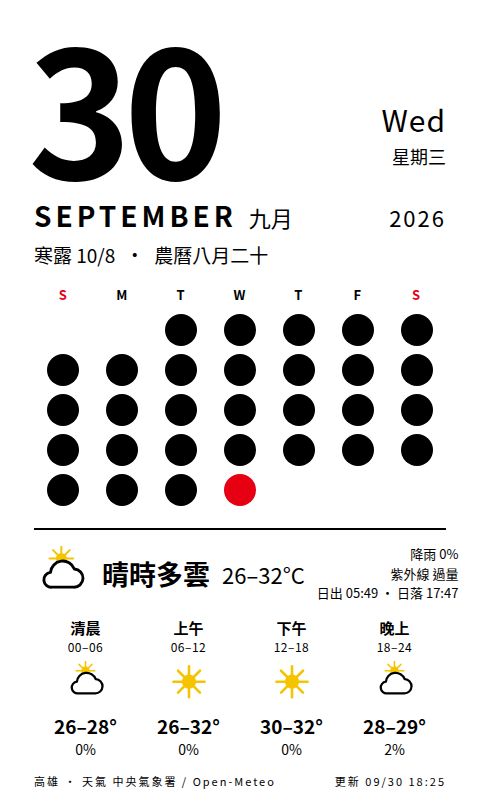
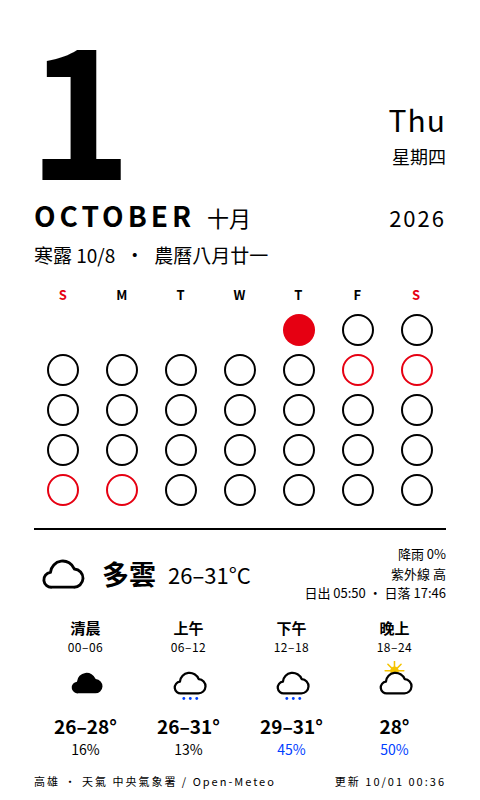
deploy: cf7d1051eb6821bc691ba0ade4beb12cdf9fe0ef

diff --git a/calendar.html b/calendar.html
@@ -47,16 +47,16 @@
 </style></head>
 <body><div class="page">
   <div class="head">
-    <div class="num">30</div>
-    <div class="wd"><div class="en">Wed</div><div class="zh">星期三</div></div>
+    <div class="num">1</div>
+    <div class="wd"><div class="en">Thu</div><div class="zh">星期四</div></div>
   </div>
-  <div class="month"><span class="en">SEPTEMBER</span><span class="zh">九月</span><span class="yr">2026</span></div>
-  <div class="today"><span class="lunar">寒露 10/8</span><span>·</span><span class="lunar">農曆八月二十</span></div>
-  <div class="grid"><div class="h we">S</div><div class="h">M</div><div class="h">T</div><div class="h">W</div><div class="h">T</div><div class="h">F</div><div class="h we">S</div><div class="dot empty"></div><div class="dot empty"></div><div class="dot past" title="1"></div><div class="dot past" title="2"></div><div class="dot past" title="3"></div><div class="dot past" title="4"></div><div class="dot past" title="5"></div><div class="dot past" title="6"></div><div class="dot past" title="7"></div><div class="dot past" title="8"></div><div class="dot past" title="9"></div><div class="dot past" title="10"></div><div class="dot past" title="11"></div><div class="dot past" title="12"></div><div class="dot past" title="13"></div><div class="dot past" title="14"></div><div class="dot past" title="15"></div><div class="dot past" title="16"></div><div class="dot past" title="17"></div><div class="dot past" title="18"></div><div class="dot past" title="19"></div><div class="dot past" title="20"></div><div class="dot past" title="21"></div><div class="dot past" title="22"></div><div class="dot past" title="23"></div><div class="dot past" title="24"></div><div class="dot past" title="25"></div><div class="dot past" title="26"></div><div class="dot past" title="27"></div><div class="dot past" title="28"></div><div class="dot past" title="29"></div><div class="dot now" title="30"></div></div>
+  <div class="month"><span class="en">OCTOBER</span><span class="zh">十月</span><span class="yr">2026</span></div>
+  <div class="today"><span class="lunar">寒露 10/8</span><span>·</span><span class="lunar">農曆八月廿一</span></div>
+  <div class="grid"><div class="h we">S</div><div class="h">M</div><div class="h">T</div><div class="h">W</div><div class="h">T</div><div class="h">F</div><div class="h we">S</div><div class="dot empty"></div><div class="dot empty"></div><div class="dot empty"></div><div class="dot empty"></div><div class="dot now" title="1"></div><div class="dot future" title="2"></div><div class="dot future" title="3"></div><div class="dot future" title="4"></div><div class="dot future" title="5"></div><div class="dot future" title="6"></div><div class="dot future" title="7"></div><div class="dot future" title="8"></div><div class="dot future hol" title="9"></div><div class="dot future hol" title="10"></div><div class="dot future" title="11"></div><div class="dot future" title="12"></div><div class="dot future" title="13"></div><div class="dot future" title="14"></div><div class="dot future" title="15"></div><div class="dot future" title="16"></div><div class="dot future" title="17"></div><div class="dot future" title="18"></div><div class="dot future" title="19"></div><div class="dot future" title="20"></div><div class="dot future" title="21"></div><div class="dot future" title="22"></div><div class="dot future" title="23"></div><div class="dot future" title="24"></div><div class="dot future hol" title="25"></div><div class="dot future hol" title="26"></div><div class="dot future" title="27"></div><div class="dot future" title="28"></div><div class="dot future" title="29"></div><div class="dot future" title="30"></div><div class="dot future" title="31"></div></div>
   <div class="wx"><div class="line">
-    <div class="wxhead"><svg viewBox="0 0 64 68" xmlns="http://www.w3.org/2000/svg"><g transform="translate(12 -4) scale(.6)"><circle cx="32" cy="32" r="11" fill="#f5c400"/><g stroke="#f5c400" stroke-width="4" stroke-linecap="round"><line x1="32" y1="32" x2="32" y2="8" transform="rotate(0 32 32)"/><line x1="32" y1="32" x2="32" y2="8" transform="rotate(45 32 32)"/><line x1="32" y1="32" x2="32" y2="8" transform="rotate(90 32 32)"/><line x1="32" y1="32" x2="32" y2="8" transform="rotate(135 32 32)"/><line x1="32" y1="32" x2="32" y2="8" transform="rotate(180 32 32)"/><line x1="32" y1="32" x2="32" y2="8" transform="rotate(225 32 32)"/><line x1="32" y1="32" x2="32" y2="8" transform="rotate(270 32 32)"/><line x1="32" y1="32" x2="32" y2="8" transform="rotate(315 32 32)"/></g></g><path d="M20 50h26a11 11 0 0 0 1-22 15 15 0 0 0-29 4 9 9 0 0 0 2 18z" fill="#fff" stroke="#000" stroke-width="3.5" stroke-linejoin="round"/></svg><span class="desc">晴時多雲</span><span class="temp">26–32°C</span>
-      <div class="meta">降雨 0%<br>紫外線 過量<br>日出 05:49 · 日落 17:47</div></div>
-    <div class="slots"><div class="slot"><div class="n">清晨</div><div class="hrs">00–06</div><svg viewBox="0 0 64 68" xmlns="http://www.w3.org/2000/svg"><g transform="translate(12 -4) scale(.6)"><circle cx="32" cy="32" r="11" fill="#f5c400"/><g stroke="#f5c400" stroke-width="4" stroke-linecap="round"><line x1="32" y1="32" x2="32" y2="8" transform="rotate(0 32 32)"/><line x1="32" y1="32" x2="32" y2="8" transform="rotate(45 32 32)"/><line x1="32" y1="32" x2="32" y2="8" transform="rotate(90 32 32)"/><line x1="32" y1="32" x2="32" y2="8" transform="rotate(135 32 32)"/><line x1="32" y1="32" x2="32" y2="8" transform="rotate(180 32 32)"/><line x1="32" y1="32" x2="32" y2="8" transform="rotate(225 32 32)"/><line x1="32" y1="32" x2="32" y2="8" transform="rotate(270 32 32)"/><line x1="32" y1="32" x2="32" y2="8" transform="rotate(315 32 32)"/></g></g><path d="M20 50h26a11 11 0 0 0 1-22 15 15 0 0 0-29 4 9 9 0 0 0 2 18z" fill="#fff" stroke="#000" stroke-width="3.5" stroke-linejoin="round"/></svg><div class="t">26–28°</div><div class="p dry">0%</div></div><div class="slot"><div class="n">上午</div><div class="hrs">06–12</div><svg viewBox="0 0 64 68" xmlns="http://www.w3.org/2000/svg"><circle cx="32" cy="32" r="11" fill="#f5c400"/><g stroke="#f5c400" stroke-width="4" stroke-linecap="round"><line x1="32" y1="32" x2="32" y2="8" transform="rotate(0 32 32)"/><line x1="32" y1="32" x2="32" y2="8" transform="rotate(45 32 32)"/><line x1="32" y1="32" x2="32" y2="8" transform="rotate(90 32 32)"/><line x1="32" y1="32" x2="32" y2="8" transform="rotate(135 32 32)"/><line x1="32" y1="32" x2="32" y2="8" transform="rotate(180 32 32)"/><line x1="32" y1="32" x2="32" y2="8" transform="rotate(225 32 32)"/><line x1="32" y1="32" x2="32" y2="8" transform="rotate(270 32 32)"/><line x1="32" y1="32" x2="32" y2="8" transform="rotate(315 32 32)"/></g></svg><div class="t">26–32°</div><div class="p dry">0%</div></div><div class="slot"><div class="n">下午</div><div class="hrs">12–18</div><svg viewBox="0 0 64 68" xmlns="http://www.w3.org/2000/svg"><circle cx="32" cy="32" r="11" fill="#f5c400"/><g stroke="#f5c400" stroke-width="4" stroke-linecap="round"><line x1="32" y1="32" x2="32" y2="8" transform="rotate(0 32 32)"/><line x1="32" y1="32" x2="32" y2="8" transform="rotate(45 32 32)"/><line x1="32" y1="32" x2="32" y2="8" transform="rotate(90 32 32)"/><line x1="32" y1="32" x2="32" y2="8" transform="rotate(135 32 32)"/><line x1="32" y1="32" x2="32" y2="8" transform="rotate(180 32 32)"/><line x1="32" y1="32" x2="32" y2="8" transform="rotate(225 32 32)"/><line x1="32" y1="32" x2="32" y2="8" transform="rotate(270 32 32)"/><line x1="32" y1="32" x2="32" y2="8" transform="rotate(315 32 32)"/></g></svg><div class="t">30–32°</div><div class="p dry">0%</div></div><div class="slot"><div class="n">晚上</div><div class="hrs">18–24</div><svg viewBox="0 0 64 68" xmlns="http://www.w3.org/2000/svg"><g transform="translate(12 -4) scale(.6)"><circle cx="32" cy="32" r="11" fill="#f5c400"/><g stroke="#f5c400" stroke-width="4" stroke-linecap="round"><line x1="32" y1="32" x2="32" y2="8" transform="rotate(0 32 32)"/><line x1="32" y1="32" x2="32" y2="8" transform="rotate(45 32 32)"/><line x1="32" y1="32" x2="32" y2="8" transform="rotate(90 32 32)"/><line x1="32" y1="32" x2="32" y2="8" transform="rotate(135 32 32)"/><line x1="32" y1="32" x2="32" y2="8" transform="rotate(180 32 32)"/><line x1="32" y1="32" x2="32" y2="8" transform="rotate(225 32 32)"/><line x1="32" y1="32" x2="32" y2="8" transform="rotate(270 32 32)"/><line x1="32" y1="32" x2="32" y2="8" transform="rotate(315 32 32)"/></g></g><path d="M20 50h26a11 11 0 0 0 1-22 15 15 0 0 0-29 4 9 9 0 0 0 2 18z" fill="#fff" stroke="#000" stroke-width="3.5" stroke-linejoin="round"/></svg><div class="t">28–29°</div><div class="p dry">2%</div></div></div>
+    <div class="wxhead"><svg viewBox="0 0 64 68" xmlns="http://www.w3.org/2000/svg"><path d="M20 50h26a11 11 0 0 0 1-22 15 15 0 0 0-29 4 9 9 0 0 0 2 18z" fill="#fff" stroke="#000" stroke-width="3.5" stroke-linejoin="round"/></svg><span class="desc">多雲</span><span class="temp">26–31°C</span>
+      <div class="meta">降雨 0%<br>紫外線 高<br>日出 05:50 · 日落 17:46</div></div>
+    <div class="slots"><div class="slot"><div class="n">清晨</div><div class="hrs">00–06</div><svg viewBox="0 0 64 68" xmlns="http://www.w3.org/2000/svg"><path d="M20 50h26a11 11 0 0 0 1-22 15 15 0 0 0-29 4 9 9 0 0 0 2 18z" fill="#000"/></svg><div class="t">26–28°</div><div class="p dry">16%</div></div><div class="slot"><div class="n">上午</div><div class="hrs">06–12</div><svg viewBox="0 0 64 68" xmlns="http://www.w3.org/2000/svg"><path d="M20 50h26a11 11 0 0 0 1-22 15 15 0 0 0-29 4 9 9 0 0 0 2 18z" fill="#fff" stroke="#000" stroke-width="3.5" stroke-linejoin="round"/><g fill="#0040ff"><circle cx="24" cy="58" r="2.2"/><circle cx="34" cy="58" r="2.2"/><circle cx="44" cy="58" r="2.2"/></g></svg><div class="t">26–31°</div><div class="p dry">13%</div></div><div class="slot"><div class="n">下午</div><div class="hrs">12–18</div><svg viewBox="0 0 64 68" xmlns="http://www.w3.org/2000/svg"><path d="M20 50h26a11 11 0 0 0 1-22 15 15 0 0 0-29 4 9 9 0 0 0 2 18z" fill="#fff" stroke="#000" stroke-width="3.5" stroke-linejoin="round"/><g fill="#0040ff"><circle cx="24" cy="58" r="2.2"/><circle cx="34" cy="58" r="2.2"/><circle cx="44" cy="58" r="2.2"/></g></svg><div class="t">29–31°</div><div class="p ">45%</div></div><div class="slot"><div class="n">晚上</div><div class="hrs">18–24</div><svg viewBox="0 0 64 68" xmlns="http://www.w3.org/2000/svg"><g transform="translate(12 -4) scale(.6)"><circle cx="32" cy="32" r="11" fill="#f5c400"/><g stroke="#f5c400" stroke-width="4" stroke-linecap="round"><line x1="32" y1="32" x2="32" y2="8" transform="rotate(0 32 32)"/><line x1="32" y1="32" x2="32" y2="8" transform="rotate(45 32 32)"/><line x1="32" y1="32" x2="32" y2="8" transform="rotate(90 32 32)"/><line x1="32" y1="32" x2="32" y2="8" transform="rotate(135 32 32)"/><line x1="32" y1="32" x2="32" y2="8" transform="rotate(180 32 32)"/><line x1="32" y1="32" x2="32" y2="8" transform="rotate(225 32 32)"/><line x1="32" y1="32" x2="32" y2="8" transform="rotate(270 32 32)"/><line x1="32" y1="32" x2="32" y2="8" transform="rotate(315 32 32)"/></g></g><path d="M20 50h26a11 11 0 0 0 1-22 15 15 0 0 0-29 4 9 9 0 0 0 2 18z" fill="#fff" stroke="#000" stroke-width="3.5" stroke-linejoin="round"/></svg><div class="t">28°</div><div class="p ">50%</div></div></div>
   </div></div>
-  <div class="foot"><span>高雄 · 天氣 中央氣象署 / Open-Meteo</span><span>更新 09/30 18:25</span></div>
+  <div class="foot"><span>高雄 · 天氣 中央氣象署 / Open-Meteo</span><span>更新 10/01 00:36</span></div>
 </div></body></html>
